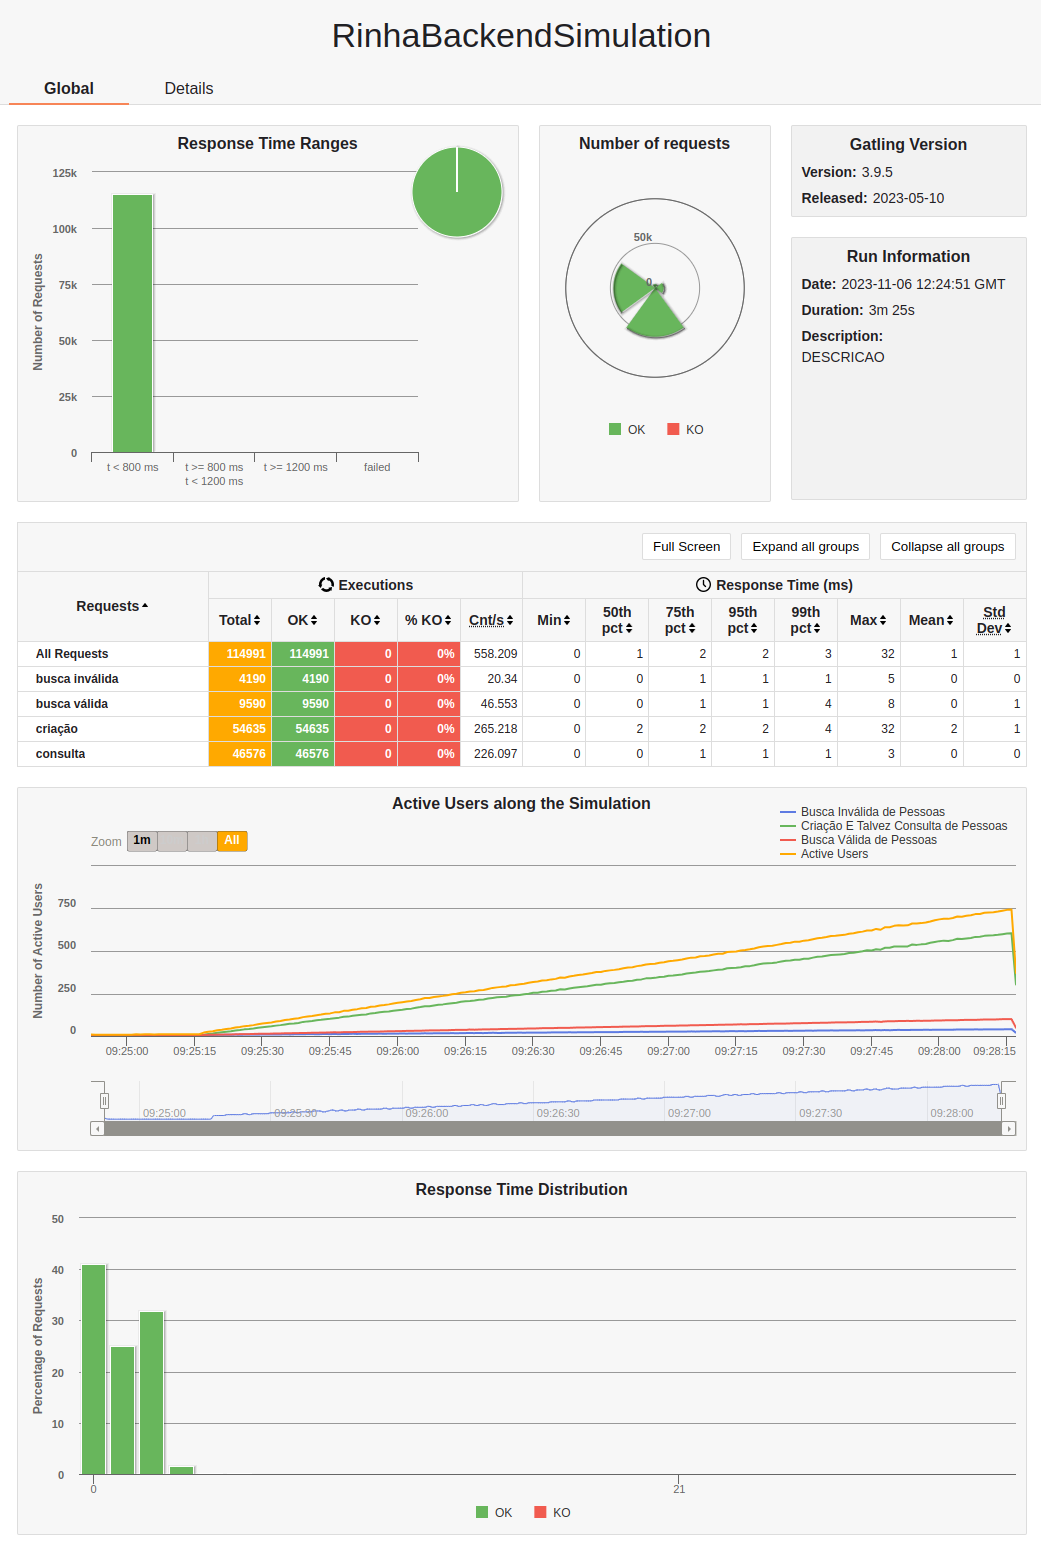
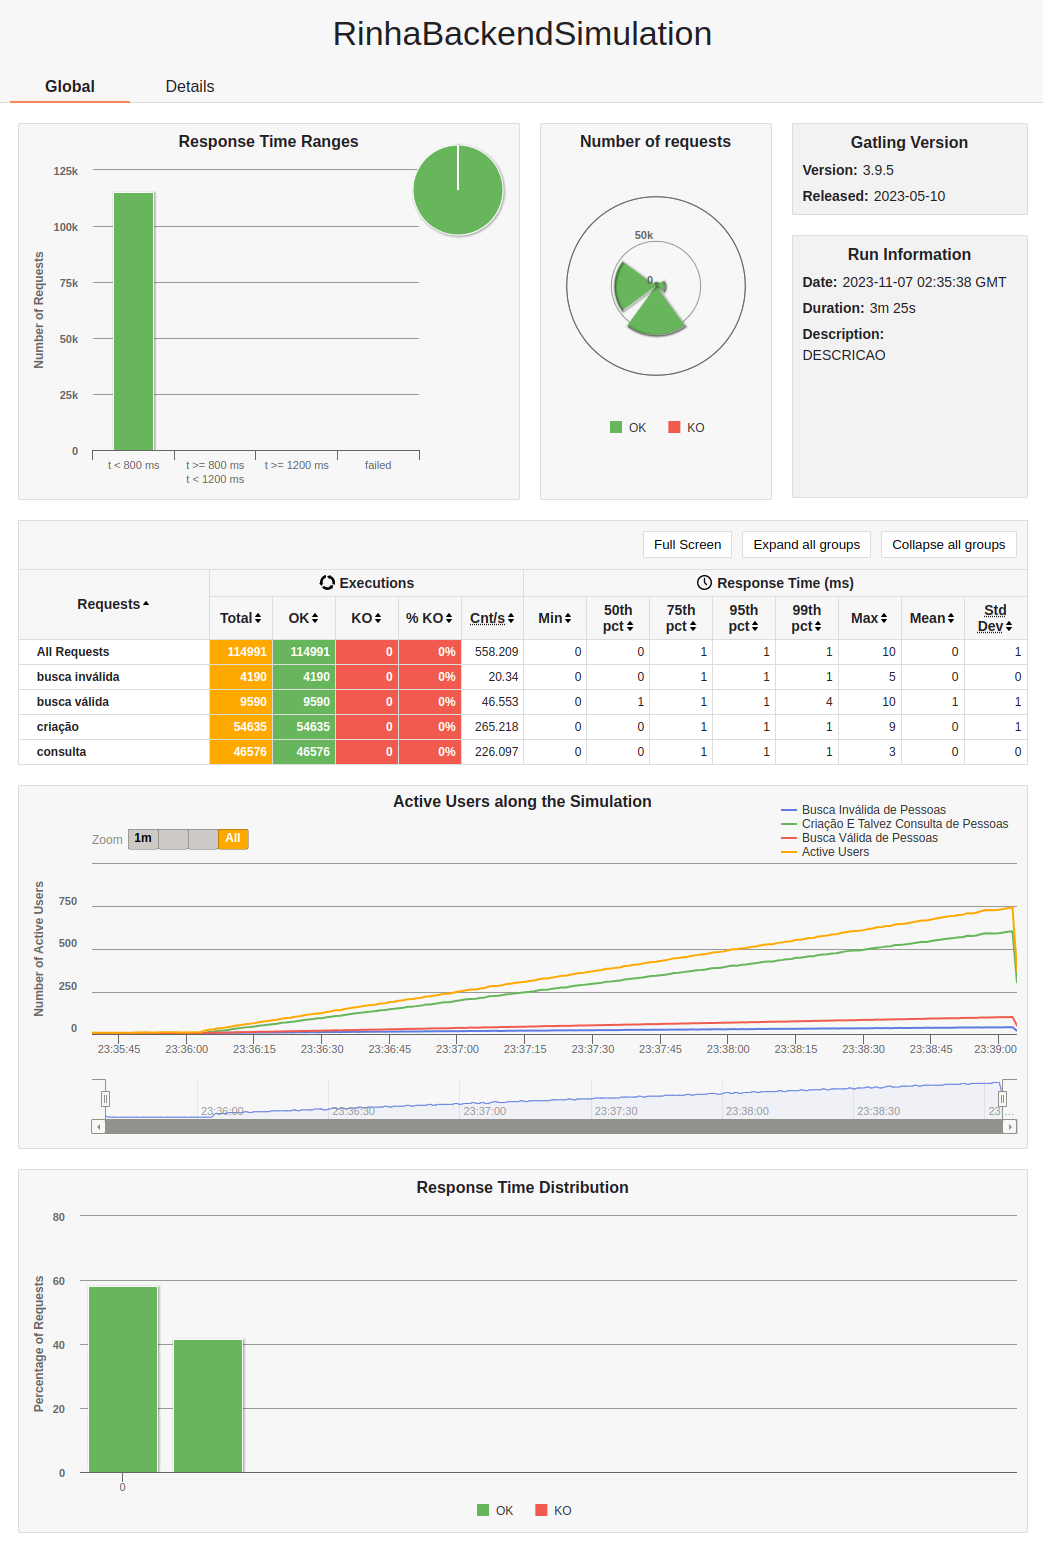
docs: update results

diff --git a/README.md b/README.md
@@ -45,13 +45,13 @@ Generating reports...
 ---- Global Information --------------------------------------------------------
 > request count                                     114991 (OK=114991 KO=0     )
 > min response time                                      0 (OK=0      KO=-     )
-> max response time                                     32 (OK=32     KO=-     )
-> mean response time                                     1 (OK=1      KO=-     )
+> max response time                                     10 (OK=10     KO=-     )
+> mean response time                                     0 (OK=0      KO=-     )
 > std deviation                                          1 (OK=1      KO=-     )
-> response time 50th percentile                          1 (OK=1      KO=-     )
-> response time 75th percentile                          2 (OK=2      KO=-     )
-> response time 95th percentile                          2 (OK=2      KO=-     )
-> response time 99th percentile                          3 (OK=3      KO=-     )
+> response time 50th percentile                          0 (OK=0      KO=-     )
+> response time 75th percentile                          1 (OK=1      KO=-     )
+> response time 95th percentile                          1 (OK=1      KO=-     )
+> response time 99th percentile                          1 (OK=1      KO=-     )
 > mean requests/sec                                558.209 (OK=558.209 KO=-     )
 ---- Response Time Distribution ------------------------------------------------
 > t < 800 ms                                        114991 (100%)
@@ -59,7 +59,6 @@ Generating reports...
 > t >= 1200 ms                                           0 (  0%)
 > failed                                                 0 (  0%)
 ================================================================================
-
 A contagem de pessoas é: 46576
 ```
 
@@ -82,13 +81,13 @@ Generating reports...
 ---- Global Information --------------------------------------------------------
 > request count                                     114991 (OK=114991 KO=0     )
 > min response time                                      0 (OK=0      KO=-     )
-> max response time                                     21 (OK=21     KO=-     )
-> mean response time                                     1 (OK=1      KO=-     )
-> std deviation                                          1 (OK=1      KO=-     )
-> response time 50th percentile                          1 (OK=1      KO=-     )
-> response time 75th percentile                          2 (OK=2      KO=-     )
-> response time 95th percentile                          2 (OK=2      KO=-     )
-> response time 99th percentile                          3 (OK=3      KO=-     )
+> max response time                                     11 (OK=11     KO=-     )
+> mean response time                                     0 (OK=0      KO=-     )
+> std deviation                                          0 (OK=0      KO=-     )
+> response time 50th percentile                          0 (OK=0      KO=-     )
+> response time 75th percentile                          1 (OK=1      KO=-     )
+> response time 95th percentile                          1 (OK=1      KO=-     )
+> response time 99th percentile                          1 (OK=1      KO=-     )
 > mean requests/sec                                558.209 (OK=558.209 KO=-     )
 ---- Response Time Distribution ------------------------------------------------
 > t < 800 ms                                        114991 (100%)
@@ -96,7 +95,6 @@ Generating reports...
 > t >= 1200 ms                                           0 (  0%)
 > failed                                                 0 (  0%)
 ================================================================================
-
 A contagem de pessoas é: 46576
 ```
 
